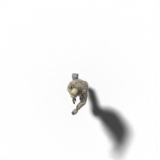
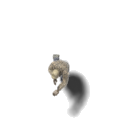
fix: crop soldier sprites to the figure and drop the baked haze and long shadow (#342)
Claude-Session: https://claude.ai/code/session_013cBuoxo2o7ve2DQSq37nVF

Changed region(s): [[0.3934, 0.4426, 0.8361, 1.0]]

diff --git a/src/data/soldier-sprites.test.ts b/src/data/soldier-sprites.test.ts
@@ -1,0 +1,71 @@
+import { existsSync, readFileSync } from 'node:fs';
+import { PNG } from 'pngjs';
+import { describe, expect, it } from 'vitest';
+
+/** Pixels at least this opaque are the figure; softer ones are its shadow and anti-aliasing. */
+const OPAQUE = 128;
+
+interface Model {
+  readonly id: string;
+  readonly kind: string;
+}
+
+const MODELS = (JSON.parse(readFileSync('scripts/render-sprite.json', 'utf8')) as { models: Model[] }).models;
+
+/** The soldier renders of every faction: the walking Infantry, and the Rifle Nest's hull (pad, sandbags, shadow). */
+const SOLDIER_SPRITES = MODELS.filter((m) => m.kind === 'infantry' || m.kind === 'rifleNest').map((m) => ({
+  id: m.id,
+  kind: m.kind,
+  path: `assets/render-${m.id}/${m.kind === 'rifleNest' ? `${m.id}-hull` : m.id}.png`,
+}));
+
+interface Box {
+  readonly w: number;
+  readonly h: number;
+}
+
+/** The bounding box of the pixels whose alpha passes `test`, with the frame it sits in. */
+function boundingBox(path: string, test: (alpha: number) => boolean): { box: Box; frame: Box } {
+  const { width, height, data } = PNG.sync.read(readFileSync(path));
+  let x0 = width;
+  let y0 = height;
+  let x1 = -1;
+  let y1 = -1;
+  for (let y = 0; y < height; y++) {
+    for (let x = 0; x < width; x++) {
+      if (!test(data[(y * width + x) * 4 + 3]!)) continue;
+      x0 = Math.min(x0, x);
+      x1 = Math.max(x1, x);
+      y0 = Math.min(y0, y);
+      y1 = Math.max(y1, y);
+    }
+  }
+  return { box: { w: x1 - x0 + 1, h: y1 - y0 + 1 }, frame: { w: width, h: height } };
+}
+
+describe('soldier sprites (#342)', () => {
+  it('covers all four factions, Infantry and Rifle Nest', () => {
+    expect(SOLDIER_SPRITES).toHaveLength(8);
+    for (const s of SOLDIER_SPRITES) expect(existsSync(s.path), s.path).toBe(true);
+  });
+
+  it('draws the figure big enough in its frame that it cannot shrink back to a speck', () => {
+    for (const s of SOLDIER_SPRITES) {
+      const { box, frame } = boundingBox(s.path, (a) => a >= OPAQUE);
+      // The Infantry is a figure about half a tile long; the Rifle Nest hull's pad and sandbags fill most of its frame.
+      const [minLongSide, minArea] = s.kind === 'infantry' ? [0.35, 0.07] : [0.5, 0.3];
+      expect(Math.max(box.w, box.h) / Math.max(frame.w, frame.h), `${s.id} long side`).toBeGreaterThanOrEqual(
+        minLongSide,
+      );
+      expect((box.w * box.h) / (frame.w * frame.h), `${s.id} area`).toBeGreaterThanOrEqual(minArea);
+    }
+  });
+
+  it('has no baked haze: the visible pixels stay clear of the frame edge', () => {
+    for (const s of SOLDIER_SPRITES) {
+      const { box, frame } = boundingBox(s.path, (a) => a > 0);
+      expect(box.w / frame.w, `${s.id} width`).toBeLessThan(0.95);
+      expect(box.h / frame.h, `${s.id} height`).toBeLessThan(0.95);
+    }
+  });
+});

diff --git a/scripts/render-sprite.py b/scripts/render-sprite.py
@@ -22,6 +22,10 @@ A model's optional `exclude` lists meshes to delete before rendering (e.g. add-o
 silhouette). `tint` multiplies the textured paint by `color` (minus materials named in `skip`; `overrides` gives a
 material its own `color` and `specular`), for a model painted in the wrong colour.
 
+`sun` (optional) overrides keys of the global sun for one model: soldiers use a higher sun so the shadow stays short
+(issue #342). The global `alphaFloor` zeroes the faint alpha the shadow catcher leaves over the whole ground plane
+(sky occlusion), so a sprite has no baked haze and its frame can be cropped to the figure.
+
 `turnDeg` turns a model clockwise after `frontAxis`, for one set down at an angle (not along an axis).
 
 `pose` freezes a rigged model at one frame of one of its animations (`action`, `frame`), e.g. a soldier crouched
@@ -279,7 +283,7 @@ def build_stage(cfg: dict, spec: dict) -> object:
     scene.collection.objects.link(cam)
     scene.camera = cam
 
-    sun_cfg = cfg["sun"]
+    sun_cfg = {**cfg["sun"], **spec.get("sun", {})}
     sun_data = bpy.data.lights.new("Sun", "SUN")
     sun_data.energy = sun_cfg["strength"]
     sun_data.angle = math.radians(sun_cfg["softnessDeg"])
@@ -305,14 +309,17 @@ def build_stage(cfg: dict, spec: dict) -> object:
     return ground
 
 
-def desaturate(path: Path, amount: float) -> None:
-    """Mix each pixel's colour `amount` of the way to its grey (Rec. 709 luma); alpha is untouched."""
+def desaturate(path: Path, amount: float, alpha_floor: float) -> None:
+    """Mix each pixel's colour `amount` of the way to its grey (Rec. 709 luma); alpha at or below `alpha_floor`
+    (0..1) becomes 0 (the shadow catcher's ground-wide haze), the rest is untouched."""
     img = bpy.data.images.load(str(path))
     px = list(img.pixels)
     for i in range(0, len(px), 4):
         r, g, b = px[i], px[i + 1], px[i + 2]
         y = 0.2126 * r + 0.7152 * g + 0.0722 * b
         px[i], px[i + 1], px[i + 2] = r + (y - r) * amount, g + (y - g) * amount, b + (y - b) * amount
+        if px[i + 3] <= alpha_floor:
+            px[i + 3] = 0.0
     img.pixels = px
     img.filepath_raw = str(path)
     img.file_format = "PNG"
@@ -323,7 +330,7 @@ def desaturate(path: Path, amount: float) -> None:
 def render(path: Path, cfg: dict) -> None:
     bpy.context.scene.render.filepath = str(path)
     bpy.ops.render.render(write_still=True)
-    desaturate(path, cfg["desaturate"])
+    desaturate(path, cfg["desaturate"], cfg.get("alphaFloor", 0))
     print(f"wrote {path.relative_to(ROOT) if path.is_relative_to(ROOT) else path}")
 
 
